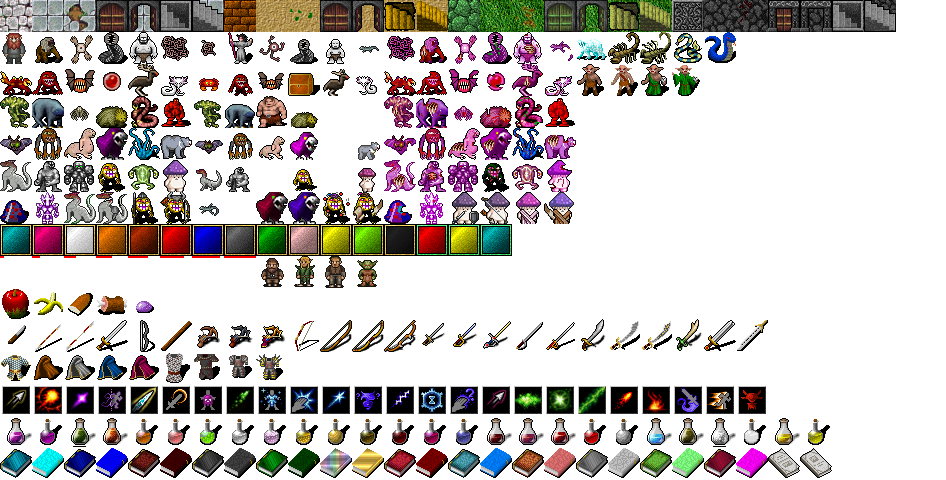
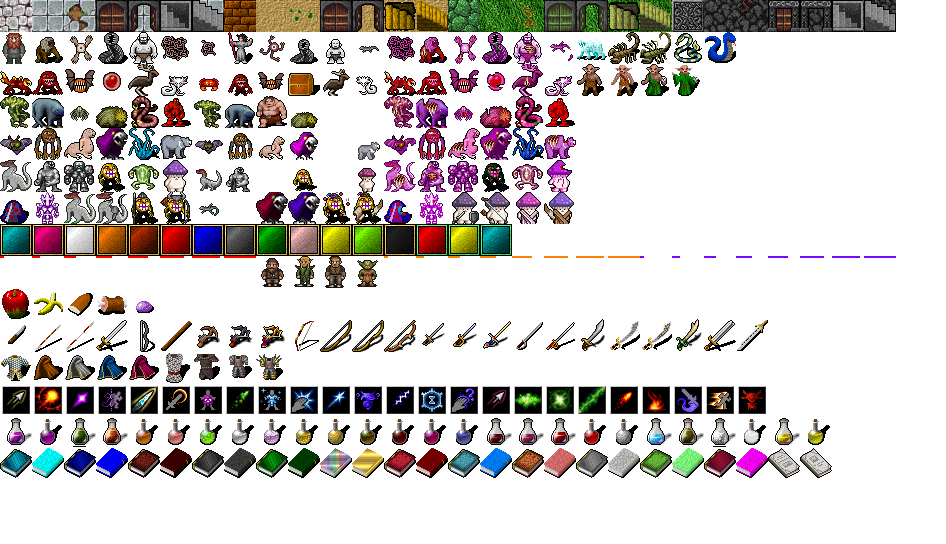
different colors for rare and bosses

diff --git a/assets/entity.js b/assets/entity.js
@@ -282,7 +282,7 @@ Entity.prototype.Draw = function() {
       hpbar = 1;
     }
     let _color = Game.map[level].Tiles[this.x][this.y].Color;
-    Game.display.draw(Game.GetCamera(this.x, this.y)[0], Game.GetCamera(this.x, this.y)[1], [Game.map[level].Tiles[this.x][this.y].Symbol, this.Symbol, "hp" + hpbar], [_color, this.Color, "#0000"], ["transparent", "transparent", "transparent"]);
+    Game.display.draw(Game.GetCamera(this.x, this.y)[0], Game.GetCamera(this.x, this.y)[1], [Game.map[level].Tiles[this.x][this.y].Symbol, this.Symbol, "hp" + (hpbar+(this.rareness-1)*8)], [_color, this.Color, "#0000"], ["transparent", "transparent", "transparent"]);
   }
 }
 

diff --git a/assets/tilemap.js b/assets/tilemap.js
@@ -44,6 +44,22 @@ var gameTilemap = {
   "hp6": [160,256],
   "hp7": [192,256],
   "hp8": [224,256],
+  "hp9": [384,256],
+  "hp10": [416,256],
+  "hp11": [448,256],
+  "hp12": [480,256],
+  "hp13": [512,256],
+  "hp14": [544,256],
+  "hp15": [576,256],
+  "hp16": [608,256],
+  "hp17": [640,256],
+  "hp18": [672,256],
+  "hp19": [704,256],
+  "hp20": [736,256],
+  "hp21": [768,256],
+  "hp22": [800,256],
+  "hp23": [832,256],
+  "hp24": [864,256],
   "gorilla": [32, 32],
   "flyingeye": [64, 32],
   "leech": [96, 32],

diff --git a/assets/item.js b/assets/item.js
@@ -182,8 +182,7 @@ Game.doItem = function(action) {
       }
       Game.doItemOptions();
       Game.messagebox.sendMessage("You unwielded the " + Game.inventory[num].name + ".");
-    }    console.log(itemtype);
-
+    }
   }
   if (action == "sacrifice") {
     if (itemtype == "weapon" || itemtype == "armor" || itemtype == "amulet"|| itemtype == "book") {
